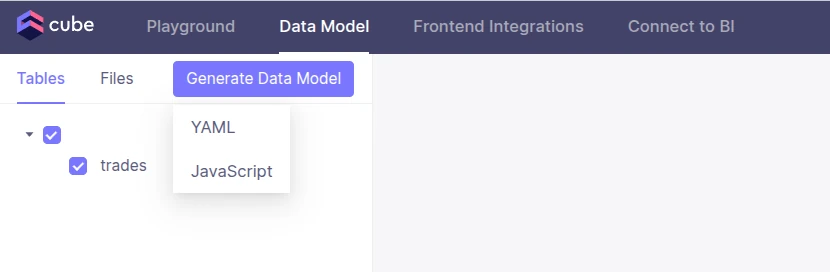
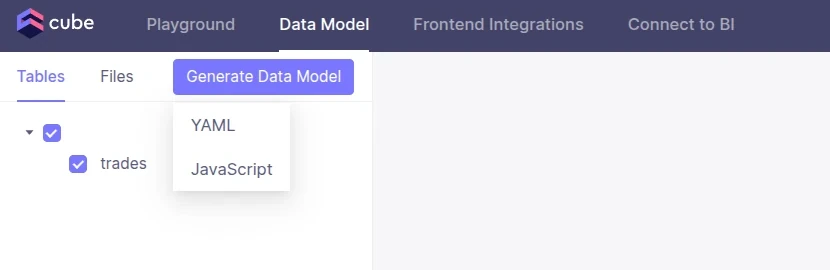
Tweak images

diff --git a/documentation/integrations/other/cube.md b/documentation/integrations/other/cube.md
@@ -127,18 +127,18 @@ import Screenshot from "@theme/Screenshot"
 
 <Screenshot
   alt="Creating a model in Cube UI"
-  height={272}
   src="images/guides/cube/cube-create-model.webp"
-  width={830}
+  width={664}
+  height={216}
 />
 
 Once that's done, you can use `trades` model in the Cube Playground to run queries:
 
 <Screenshot
   alt="Running queries in Cube UI"
-  height={462}
   src="images/guides/cube/cube-run-query.webp"
   width={925}
+  height={462}
 />
 
 Not sure what to do next? Check out
